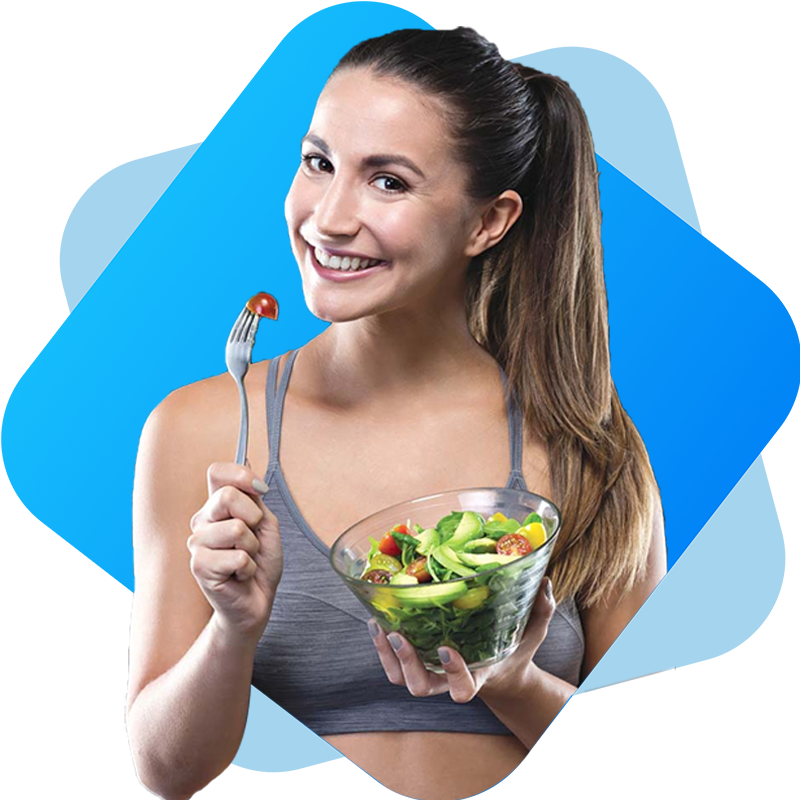
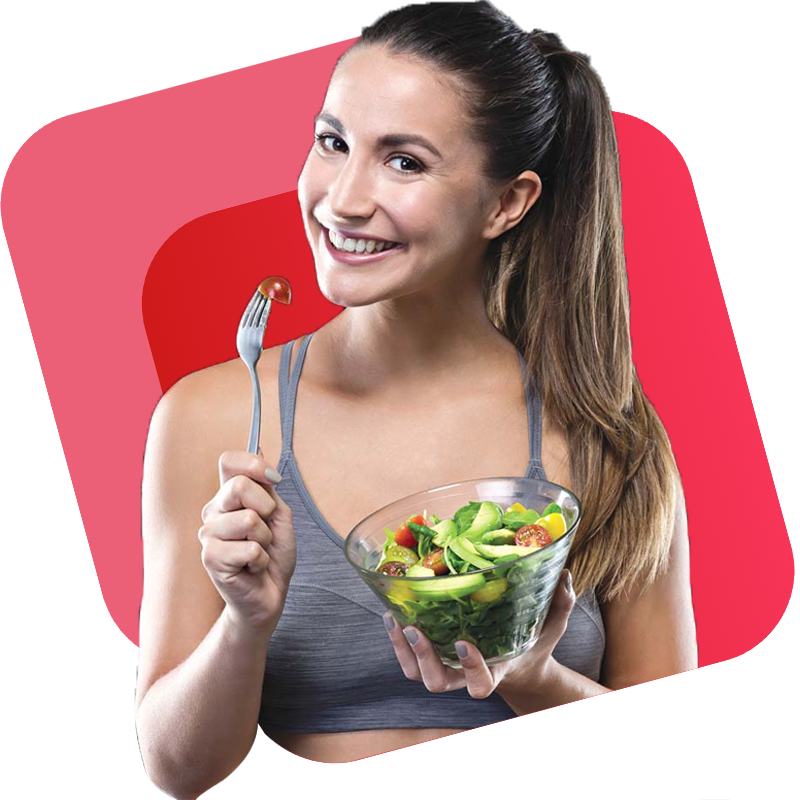
third section added

diff --git a/index.html b/index.html
@@ -12,7 +12,7 @@
     <!-- font -->
     <link rel="preconnect" href="https://fonts.googleapis.com">
     <link rel="preconnect" href="https://fonts.gstatic.com" crossorigin>
-    <link href="https://fonts.googleapis.com/css2?family=Poppins:wght@300;400;500;700&display=swap" rel="stylesheet">
+    <link href="https://fonts.googleapis.com/css2?family=Montserrat:wght@300;400;500;600;700&display=swap" rel="stylesheet">
 </head>
 <body>
 
@@ -22,7 +22,7 @@
             <h1><span>Give up </span>Diet</h1>
             <h1>Just eat healthy food</h1>
             <h1>with food network</h1>
-            <p>You don't need diet. Because we try to provide healthy food items always.</p>
+            <p>Food, in the end, in our own tradition, is something holy. It's not about nutrients and calories. It's about sharing. It's about honesty. It's about identity and gstronomy food, taste and flavours.</p>
             <a href="https://github.com/DruboSaptapan">order food</a>
         </div>
 
@@ -40,11 +40,36 @@
 
         <div class="right side">
             <h1>About me</h1>
-            <p>Don't focus how you eat. Focus on what you eat.</p>
-            <p>We always try to provide healthy & good food. By which you can fit. You don't need following diet chart.</p>
+            <p>Food, in the end, in our own tradition, is something holy. It's not about nutrients and calories. It's about sharing. It's about honesty. It's about identity and gstronomy food, taste and flavours.</p>
             <a href="https://github.com/DruboSaptapan">order food</a>
         </div>
 
+    </section>
+
+    <section id="third">
+        <h2>my recipies</h2>
+        <p class="sub-title">The food pyramid will help you get the right amount of nutrients such as protein, fat, crabs, and vitamins. The Harvard School of Public Health has developed a pyramid of healthy foods.</p>
+        <div class="recipies">
+
+            <div class="recipi">
+                <img src="img/food1.png" alt="">
+                <h3>Pyramid</h3>
+                <p class="content">The food pyramid is one of the best ways you can make healthy eating simple. The food pyramid will help you get the right amount</p>
+            </div>
+
+            <div class="recipi">
+                <img src="img/food2.png" alt="">
+                <h3>Pyramid</h3>
+                <p class="content">The food pyramid is one of the best ways you can make healthy eating simple. The food pyramid will help you get the right amount</p>
+            </div>
+
+            <div class="recipi">
+                <img src="img/food3.png" alt="">
+                <h3>Pyramid</h3>
+                <p class="content">The food pyramid is one of the best ways you can make healthy eating simple. The food pyramid will help you get the right amount</p>
+            </div>
+
+        </div>
     </section>
 
 </body>

diff --git a/style.css b/style.css
@@ -2,6 +2,9 @@
     margin: 0;
     padding: 0;
 }
+body{
+    font-family: 'Montserrat', sans-serif;
+}
 .side{
     width: 50%;
 }
@@ -17,26 +20,27 @@
 #first .left h1{
     color: #575757;
     font-size: 50px;
-    font-family: 'Poppins', sans-serif;
     text-transform: capitalize;
 }
 #first .left span{
-    color: #13b7fb;
+    color: #eb6076;
 }
 #first .left p{
-    color: #828282;
+    color: #575757;
     font-size: 16px;
-    font-family: 'Poppins', sans-serif;
+    font-weight: 500;
     margin-top: 30px;
     margin-bottom: 50px;
+    line-height: 25px;
 }
 #first .left a{
     color: #fff;
     font-size: 16px;
-    font-family: 'Poppins', sans-serif;
-    background-image: linear-gradient(135deg, #a5d4ee,#13b8fb);
+    font-weight: 700;
+    background-image: linear-gradient(224deg, #eb6076,#d21c1f);
     border-radius: 30px;
-    padding: 10px 20px;
+    box-shadow: 5px 5px 20px rgba(210, 28, 31, 0.6);
+    padding: 20px 40px;
     text-transform: capitalize;
     text-decoration: none;
 }
@@ -71,23 +75,75 @@
 #second .right h1{
     color: #575757;
     font-size: 50px;
-    font-family: 'Poppins', sans-serif;
     text-transform: capitalize;
 }
 #second .right p{
-    color: #828282;
+    color: #575757;
     font-size: 16px;
-    font-family: 'Poppins', sans-serif;
+    font-weight: 500;
     margin-top: 30px;
-    margin-bottom: 50px;
+    margin-bottom: 70px;
+    line-height: 25px;
 }
 #second .right a{
     color: #fff;
     font-size: 16px;
-    font-family: 'Poppins', sans-serif;
-    background-image: linear-gradient(135deg, #a5d4ee,#13b8fb);
+    font-weight: 700;
+    background-image: linear-gradient(224deg, #eb6076,#d21c1f);
     border-radius: 30px;
-    padding: 10px 20px;
+    box-shadow: 5px 5px 20px rgba(210, 28, 31, 0.6);
+    padding: 20px 40px;
     text-transform: capitalize;
     text-decoration: none;
+}
+/* ↓ ↓ ↓ third ↓ ↓ ↓ */
+#third{
+    margin-top: 80px;
+    margin-bottom: 80px;
+}
+#third h2{
+    color: #575757;
+    font-size: 42px;
+    text-align: center;
+    text-transform: capitalize;
+}
+#third .sub-title{
+    width: 65%;
+    margin: 0 auto;
+    margin-top: 30px;
+    margin-bottom: 50px;
+    color: #252525;
+    font-size: 16px;
+    font-weight: 500;
+    line-height: 30px;
+    text-align: center;
+}
+.recipies{
+    display: flex;
+    margin: 0 70px;
+}
+.recipi{
+    width: 345px;
+    padding: 15px;
+    border-radius: 20px;
+    margin: 0 20px;
+    box-shadow: 4px 4px 30px rgba(75, 75, 75, 0.3)
+}
+.recipi img{
+    width: 100%;
+    border-radius: 20px;
+}
+.recipi h3{
+    color: #575757;
+    font-size: 34px;
+    margin: 15px 0;
+}
+.recipi .content{
+    color: #575757;
+    font-size: 16px;
+    padding-bottom: 5px;
+    line-height: 25px;
+    font-weight: 500;
+    text-align: left;
+    margin: 0;
 }
